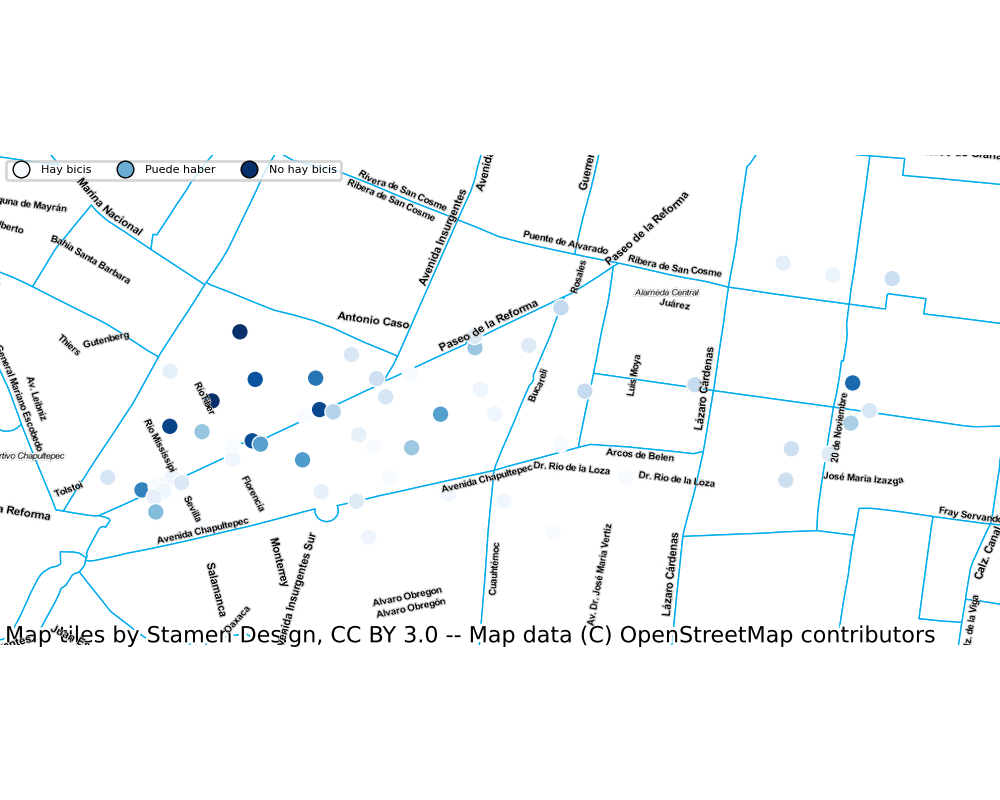
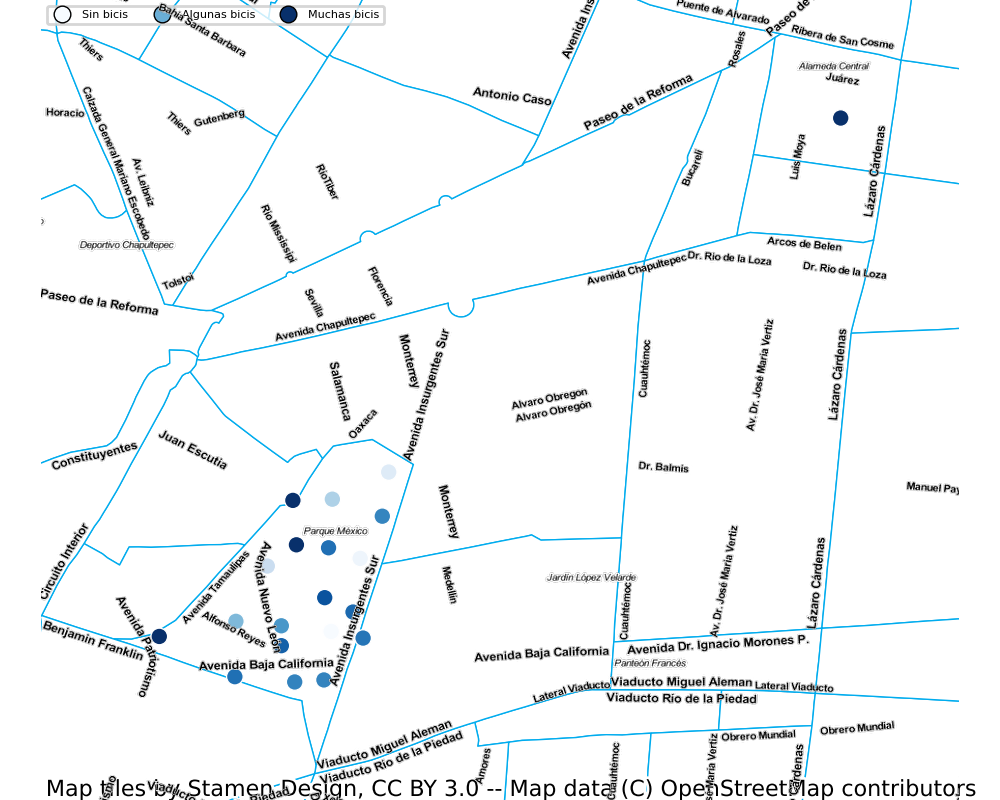
Filtrar mapa con zipcode desde Telegram

diff --git a/scripts/etl.py b/scripts/etl.py
@@ -3,20 +3,21 @@ from io import BytesIO
 from dateutil import tz
 from pathlib import Path
 from zipfile import ZipFile
+from datetime import datetime
 from json import loads as loads_json
 from PIL.Image import open as open_image
-from datetime import datetime, timedelta
 from requests import get as get_request
 
 # Ingeniería de variables
 from geopandas import read_file
-from pandas import DataFrame, Timestamp, json_normalize, read_csv, concat
+from pandas import DataFrame, json_normalize
 
 # Gráficas
 from seaborn import scatterplot
 from matplotlib.lines import Line2D
 from contextily import add_basemap, providers
-from matplotlib.pyplot import Axes, Figure, get_cmap
+from matplotlib.pyplot import Axes, Figure, get_cmap, switch_backend
+switch_backend('Agg')
 
 # # Twitter
 # from twython import Twython
@@ -26,7 +27,7 @@ from matplotlib.pyplot import Axes, Figure, get_cmap
 # import ecoTad, ecoPredict
 
 class EcoBiciMap:
-    def __init__(self, client_id: str, client_secret: str, telegram_api: str, is_local: bool=True) -> None:
+    def __init__(self, client_id: str, client_secret: str, is_local: bool=True) -> None:
         '''
         Define el directorio base, la URL base y las credenciales para el acceso a la API Ecobici
         :client_id: user_uuid proporcionado por Ecobici. Más info en: https://www.ecobici.cdmx.gob.mx/sites/default/files/pdf/manual_api_opendata_esp_final.pdf 
@@ -127,14 +128,15 @@ class EcoBiciMap:
         :slots_col:     columna que indica los slots vacíos
         '''
         # Filtra el código postal elegido
-        self.st = self.st[self.st[zipcode_col]==zipcode].copy()
+        df = self.st[self.st[zipcode_col]==zipcode].copy()
         # Une la información de estaciones con la disponibilidad de las mismas
-        self.df = self.st[station_cols].merge(self.av, on=id_col)
+        df = df[station_cols].merge(self.av, on=id_col)
         # Sólo las estaciones con estatus disponible
-        self.df = self.df[self.df[status_col]=='OPN'].copy()
+        df = df[df[status_col]=='OPN'].copy()
         # Calcula la proporción de disponibilidad, tanto de bicicletas, como de slots vacíos
-        self.df['slots_proportion'] = self.df[slots_col] / (self.df[slots_col] + self.df[bikes_col])
-        self.df['bikes_proportion'] = 1 - self.df['slots_proportion']
+        df['slots_proportion'] = df[slots_col] / (df[slots_col] + df[bikes_col])
+        df['bikes_proportion'] = 1 - df['slots_proportion']
+        return df
 
 
     def set_custom_legend(self, ax, cmap, values: list) -> None:
@@ -156,8 +158,10 @@ class EcoBiciMap:
         ax.set_axis_off()
         
         # Delimita el tamaño dependiendo el rango de las coordenadas
-        ax.set_ylim((data[lat_col].min() - padding, data[lat_col].max() + padding))
-        ax.set_xlim((data[lon_col].min() - padding, data[lon_col].max() + padding))
+        try:
+            ax.set_ylim((data[lat_col].min() - padding, data[lat_col].max() + padding))
+            ax.set_xlim((data[lon_col].min() - padding, data[lon_col].max() + padding))
+        except: pass
 
         # Grafica el mapa de las colonias en CDMX
         self.gdf.plot(ax=ax, figsize=(8, 8), linewidth=0.5, **kwargs)
@@ -169,7 +173,7 @@ class EcoBiciMap:
         scatterplot(y=lat_col, x=lon_col, data=data, ax=ax, palette=cmap, hue=col_to_plot)
 
         # Modifica las etiquetas para indicar el significado del color en las estaciones
-        self.set_custom_legend(ax, cmap, values=[(0.0, 'Hay bicis'), (0.5, 'Puede haber'), (1.0, 'No hay bicis')])
+        self.set_custom_legend(ax, cmap, values=[(0.0, 'Sin bicis'), (0.5, 'Algunas bicis'), (1.0, 'Muchas bicis')])
         # Guarda la imagen
         self.eb_map[img_name] = fig
         self.eb_map[img_name].savefig(self.media_dir.joinpath(f'{img_name}.png'))
@@ -187,16 +191,3 @@ class EcoBiciMap:
     #     self.pred['prediction'] = self.pred['prediction'].map(lambda x: 0 if x<0 else x)
     #     self.pred['bikes_proportion'] = 1 - self.pred['prediction'] / (self.pred['availability.bikes'] + self.pred['availability.slots'])
     #     self.pred['bikes_proportion'] = self.pred['bikes_proportion'].map(lambda x: 0 if x<0 else x)
-
-
-    def get_map(self, img_name: str, zipcode: str, shp_first_time: bool=True, **kwargs) -> None:
-        self.get_token(first_time=True)
-        self.st = self.get_data()
-        self.av = self.get_data(availability=True)
-
-        if shp_first_time: self.get_shapefile()
-        else: self.gdf = read_file(self.shapefile_dir).to_crs(epsg=4326)
-
-        self.transform(zipcode=zipcode)
-        img = self.plot_map(data=self.df, col_to_plot='bikes_proportion', img_name=f'{img_name}', **kwargs)
-        return img

diff --git a/scripts/main.py b/scripts/main.py
@@ -1,27 +1,47 @@
+from etl import EcoBiciMap
 from telebot import TeleBot
 
-from etl import EcoBiciMap
+# from os import getenv
+# ECOBICI_CLIENT_ID = getenv('ECOBICI_CLIENT_ID')
+# ECOBICI_CLIENT_SECRET = getenv('ECOBICI_CLIENT_SECRET')
+# TELEGRAM_API_KEY = getenv('TELEGRAM_API_KEY')
 
 ECOBICI_CLIENT_ID = '2199_132ley5lk3404wkk4c4w4ggo48kwcokosogg0k0www84s08gs'
 ECOBICI_CLIENT_SECRET = '61xytd2ketssok44g4kkckwogkg048gk0ok48sc0k0wgc8scs'
-
 TELEGRAM_API_KEY = '5424781174:AAGSCoHB5NXzsdRPPRR-9qXQ8VtuLhT8I34'
-ZIPCODE = '06500'
 
-ebm = EcoBiciMap(ECOBICI_CLIENT_ID, ECOBICI_CLIENT_SECRET, TELEGRAM_API_KEY, is_local=True)
+
+ebm = EcoBiciMap(ECOBICI_CLIENT_ID, ECOBICI_CLIENT_SECRET, is_local=True)
 ebm.get_token(first_time=True)
 ebm.st = ebm.get_data()
 ebm.av = ebm.get_data(availability=True)
 ebm.get_shapefile()
+valid_zipcodes = set(ebm.st['zipCode'])
 print('Map ready!')
 
+
 bot = TeleBot(TELEGRAM_API_KEY)
-@bot.message_handler(commands=['zipcode'])
+
+@bot.message_handler(commands=['test'])
+def test(message):
+	bot.reply_to(message, message.text)
+
+def filter_zipcode(message):
+  request = message.text.split()
+  if request[0].lower()=='zipcode' and request[1] in valid_zipcodes: return True
+  else: return False
+
+
+# SIGUIENTES PASOS:
+# OPCIONES PARA ELEGIR EL DISTRITO
+
+@bot.message_handler(func=filter_zipcode)
 def send_map(message):
-	ebm.transform(zipcode=ZIPCODE)
+	to_filter = message.text.split()[1]
+	df = ebm.transform(zipcode=to_filter)
 	img = ebm.plot_map(
-		data=ebm.df,
-		col_to_plot='bikes_proportion',
+		data=df,
+		col_to_plot='slots_proportion',
 		img_name='map',
 		padding=0.006,
 		color='#ffffff',
@@ -29,19 +49,6 @@ def send_map(message):
 		points_palette='Blues'
 	)
 	bot.send_photo(chat_id=message.chat.id, photo=img)
+	print(f'Sent CP: {to_filter}!')
 
 bot.infinity_polling()
-
-
-
-#################################################################################
-def stock_request(message):
-  request = message.text.split()
-  if len(request) < 2 or request[0].lower() not in "price":
-    return False
-  else:
-    return True
-
-@bot.message_handler(func=stock_request)
-def send_price(message):
-  request = message.text.split()[1]
